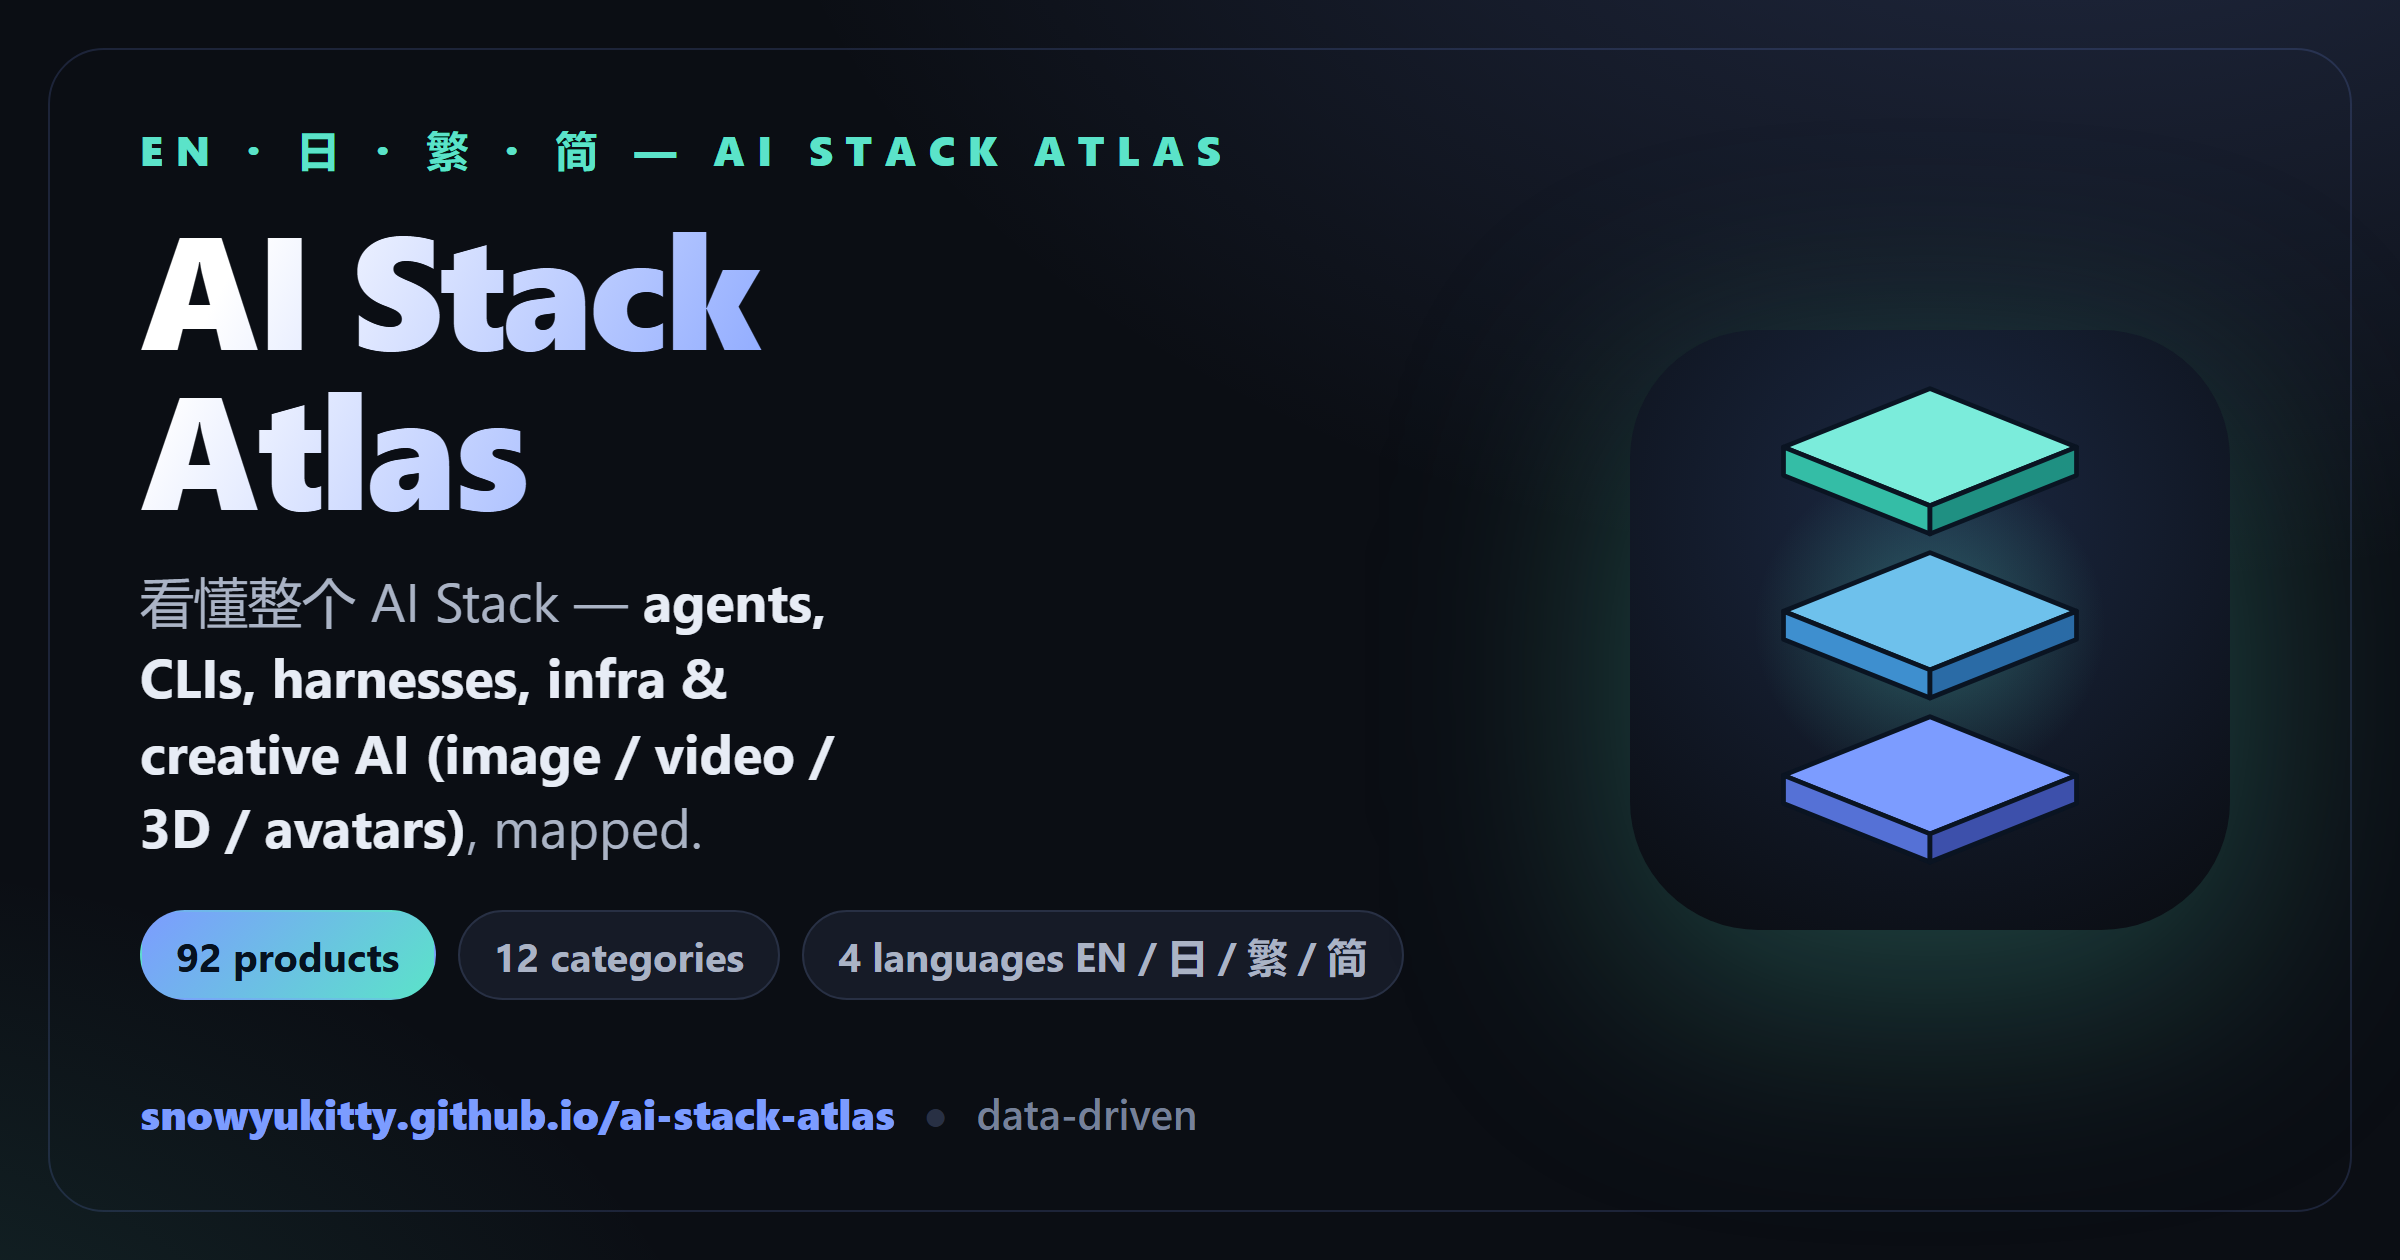
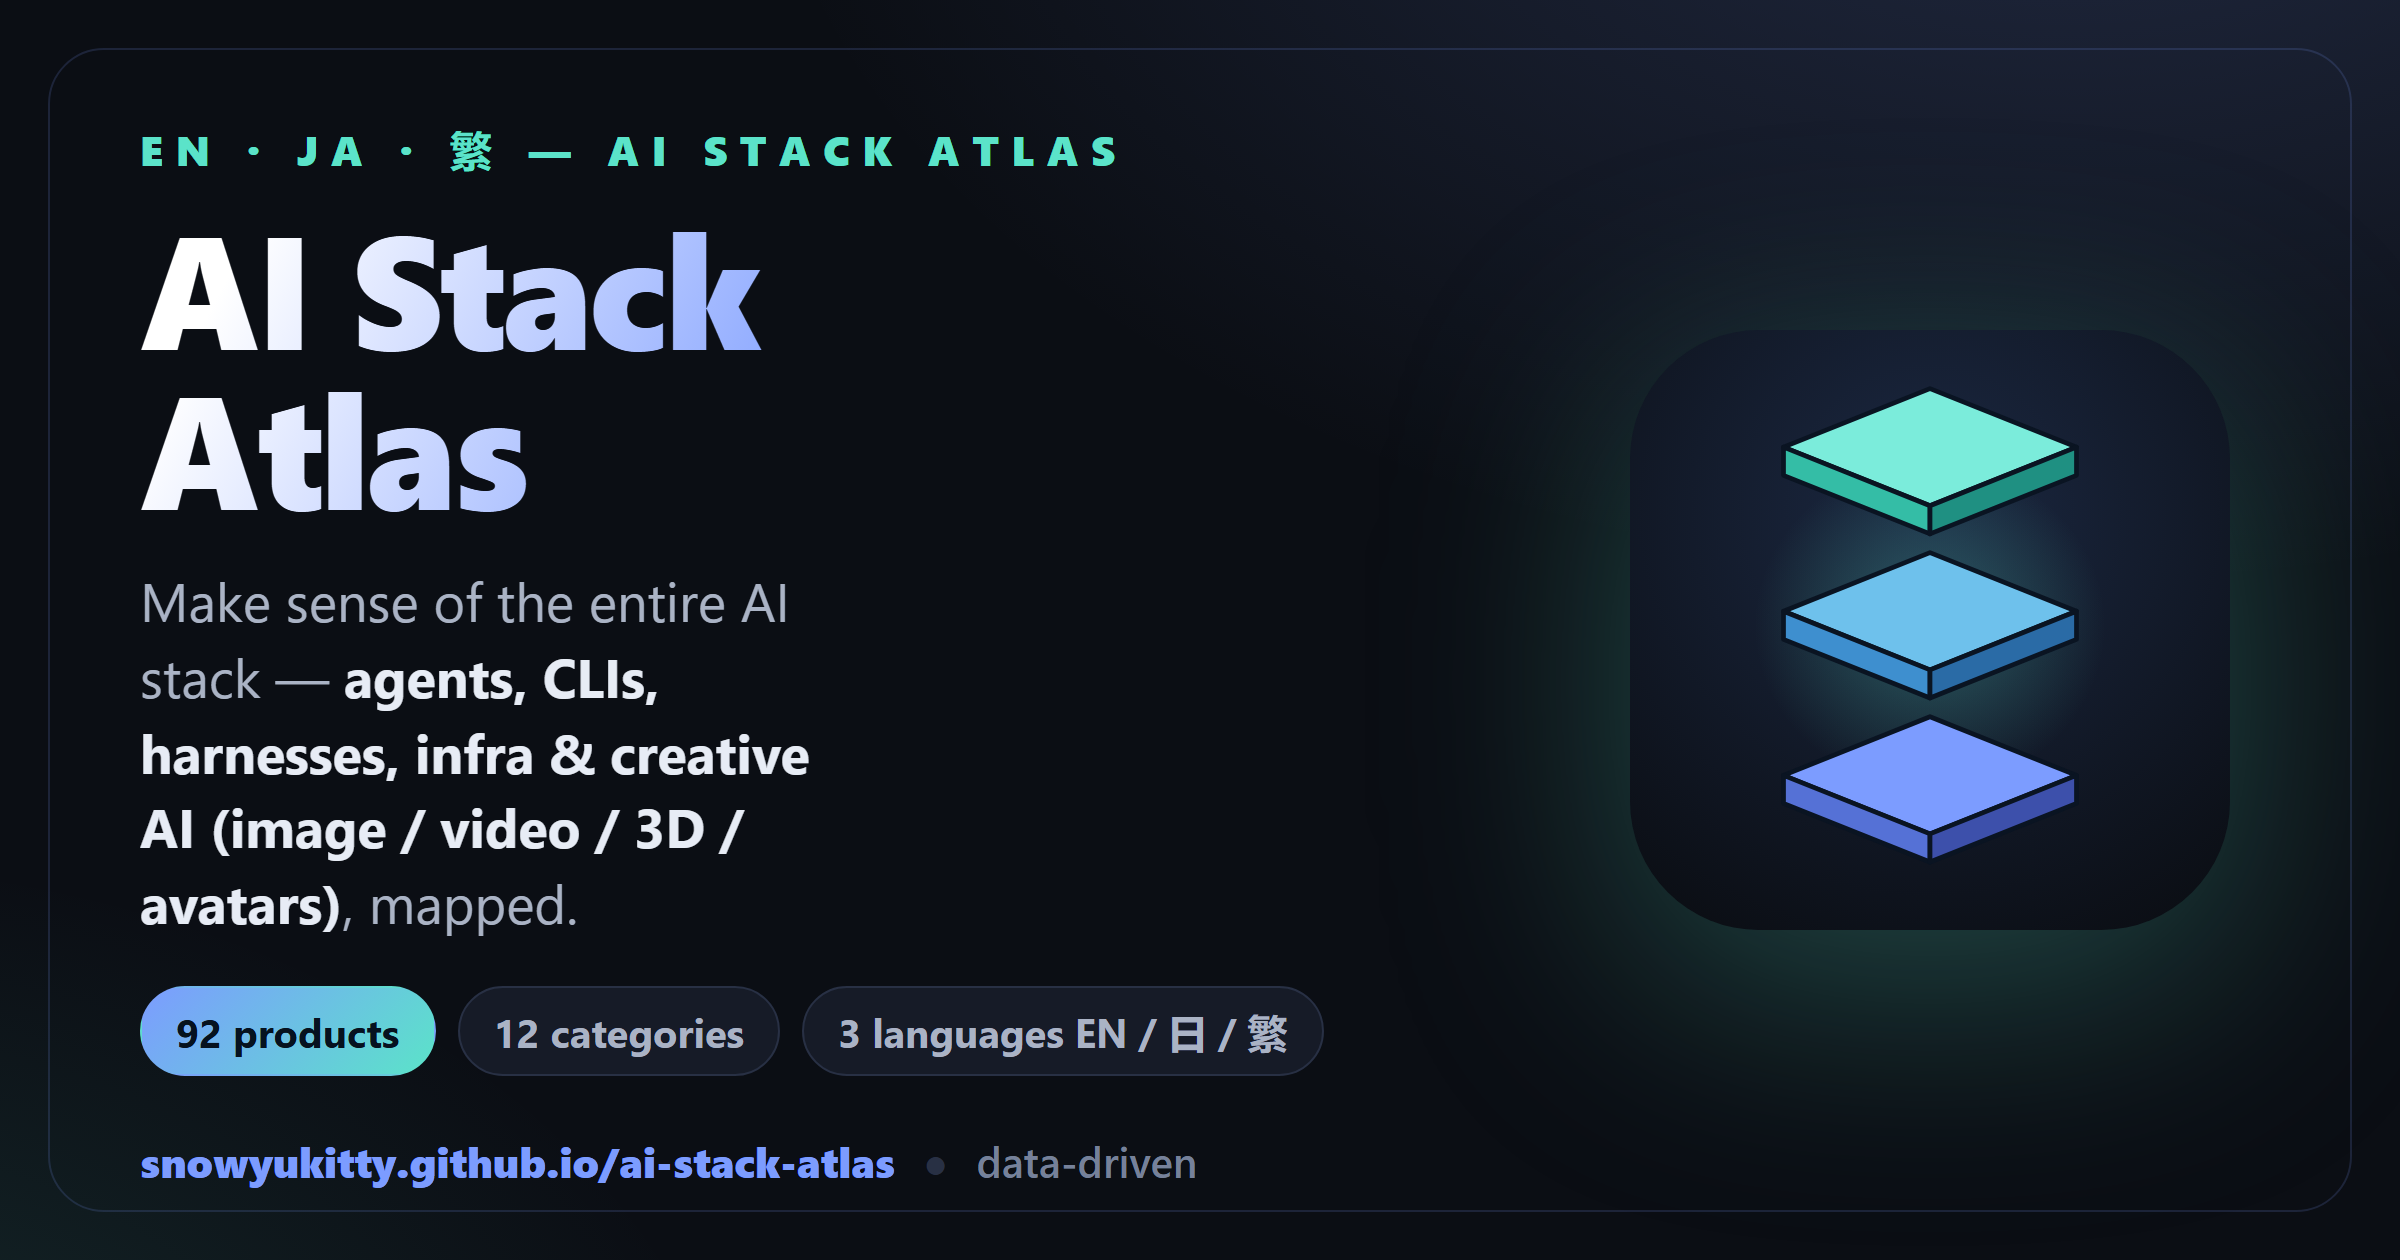
Use EN/JA/繁 as display locales; keep Simplified hidden
English is primary and Traditional Chinese remains the Chinese UI (OpenCC from zh). Simplified translations stay in data and HTML, but the 简 switcher is temporarily hidden so it can be re-enabled later.

diff --git a/src/data/ui.ts b/src/data/ui.ts
@@ -1,11 +1,18 @@
 import type { Loc } from '../lib/types';
 
+/** Authoring locale codes in Loc. Display adds "hant" (derived from zh via OpenCC). */
 export type LangCode = 'zh' | 'en' | 'ja';
 
-export const LANGS: { code: LangCode; label: string }[] = [
-  { code: 'zh', label: '中文' },
+/**
+ * Language switcher order: EN primary, JA secondary, 繁.
+ * Simplified (`zh` / 简) is temporarily hidden — still in data + HTML.
+ * To re-show: unhide the 简 button in Header.astro and accept `zh` in Base.astro.
+ */
+export const LANGS: { code: 'en' | 'ja' | 'hant' | 'zh'; label: string; hidden?: boolean }[] = [
   { code: 'en', label: 'EN' },
   { code: 'ja', label: '日本語' },
+  { code: 'hant', label: '繁' },
+  { code: 'zh', label: '简', hidden: true },
 ];
 
 /** UI string table. */
@@ -74,9 +81,9 @@ export const ui = {
   },
   footer: {
     built: {
-      zh: '一个会持续更新的 AI Stack 知识库 · 数据驱动 · 四语（EN / 日 / 繁 / 简）',
-      en: 'A continuously updated AI-stack knowledge base · data-driven · 4 languages (EN / 日 / 繁 / 简)',
-      ja: '継続更新する AI スタック知識ベース · データ駆動 · 4 言語（EN / 日 / 繁 / 简）',
+      zh: '一个会持续更新的 AI Stack 知识库 · 数据驱动 · 三语（EN / 日 / 繁）',
+      en: 'A continuously updated AI-stack knowledge base · data-driven · 3 languages (EN / 日 / 繁)',
+      ja: '継続更新する AI スタック知識ベース · データ駆動 · 3 言語（EN / 日 / 繁）',
     },
     disclaimer: {
       zh: '评分与定位为个人观点，benchmark 数据引自公开来源，会随版本变化。',

diff --git a/src/styles/global.css b/src/styles/global.css
@@ -11,8 +11,8 @@
   /* Offset for deep-link scroll targets so they clear the sticky header. */
   --scroll-offset: 84px;
   --font-sans: ui-sans-serif, system-ui, -apple-system, "Segoe UI", Roboto,
-    "Helvetica Neue", "PingFang SC", "Hiragino Sans", "Microsoft YaHei",
-    "Noto Sans CJK SC", sans-serif;
+    "Helvetica Neue", "PingFang TC", "Hiragino Sans", "Microsoft JhengHei",
+    "Noto Sans CJK TC", "Hiragino Sans GB", sans-serif;
   --font-mono: ui-monospace, "SFMono-Regular", "JetBrains Mono", "Cascadia Code",
     Consolas, "Liberation Mono", monospace;
 }
@@ -107,18 +107,21 @@ code, kbd {
 
 /* ============================================================
    i18n — show only the active language
+   Display UI: en (primary) · ja · hant.
+   Simplified (zh) CSS is kept so re-enabling the switcher button just works;
+   the 简 button is currently `hidden` in Header.astro.
    ============================================================ */
 .i18n > [lang] { display: none; }
-html[data-lang="zh"] .i18n > [lang="zh"] { display: revert; }
-html[data-lang="hant"] .i18n > [lang="hant"] { display: revert; }
 html[data-lang="en"] .i18n > [lang="en"] { display: revert; }
 html[data-lang="ja"] .i18n > [lang="ja"] { display: revert; }
+html[data-lang="hant"] .i18n > [lang="hant"] { display: revert; }
+html[data-lang="zh"] .i18n > [lang="zh"] { display: revert; }
 /* block-level variant */
 .i18n-block > [lang] { display: none; }
-html[data-lang="zh"] .i18n-block > [lang="zh"] { display: block; }
-html[data-lang="hant"] .i18n-block > [lang="hant"] { display: block; }
 html[data-lang="en"] .i18n-block > [lang="en"] { display: block; }
 html[data-lang="ja"] .i18n-block > [lang="ja"] { display: block; }
+html[data-lang="hant"] .i18n-block > [lang="hant"] { display: block; }
+html[data-lang="zh"] .i18n-block > [lang="zh"] { display: block; }
 
 /* ============================================================
    Header

diff --git a/src/lib/hant.ts b/src/lib/hant.ts
@@ -1,8 +1,10 @@
 // Build-time Simplified -> Traditional Chinese conversion.
 //
-// The dataset stays trilingual (zh / en / ja). Traditional Chinese ("繁") is a
-// FOURTH *display* locale derived from the Simplified `zh` text at build time via
-// OpenCC, so we render it into the HTML without duplicating hundreds of strings.
+// Authoring stays trilingual (zh / en / ja). User-facing Chinese is Traditional
+// ("繁" / hant), derived from the Simplified `zh` strings via OpenCC so we don't
+// duplicate hundreds of entries. Simplified translations are still rendered into
+// the HTML (and kept in data), but the language-switcher button is temporarily
+// hidden — re-enable by unhiding the 简 button in Header.astro.
 // `twp` = Simplified -> Traditional (Taiwan standard, with phrase/vocabulary
 // localization, e.g. 软件->軟體, 网络->網路, 鼠标->滑鼠). OpenCC only touches CJK
 // characters, so any inline HTML/ASCII in a string passes through untouched.

diff --git a/src/lib/types.ts b/src/lib/types.ts
@@ -1,4 +1,10 @@
-/** A localized string: Simplified Chinese / English / Japanese. */
+/**
+ * A localized string triple used for authoring.
+ * Display order: English (primary) · Japanese (secondary) · Traditional Chinese.
+ * `zh` holds Simplified Chinese (kept in data + HTML). Traditional Chinese is
+ * derived at build time via OpenCC for the 繁 locale. The Simplified switcher
+ * option is temporarily hidden in the UI.
+ */
 export interface Loc {
   zh: string;
   en: string;

diff --git a/README.md b/README.md
@@ -1,16 +1,18 @@
 <div align="center">
 
-<img src="public/og.png" alt="AI Stack Atlas — a four-language field guide to the modern AI stack" width="820">
+<img src="public/og.png" alt="AI Stack Atlas — an EN / JA / 繁 field guide to the modern AI stack" width="820">
 
-# AI Stack Atlas · AI Stack 图鉴
+# AI Stack Atlas
 
 ### **[🔗 Live site → snowyukitty.github.io/ai-stack-atlas](https://snowyukitty.github.io/ai-stack-atlas/)**
 
-A **four-language (English · 日本語 · 繁體 · 简体)**, data-driven field guide & comparison hub
+A **three-language (English · 日本語 · 繁體中文)** field guide & comparison hub
 for the modern AI stack — **coding agents · CLIs · harnesses · infrastructure · image / video / 3D / avatars / music / voice** —
 with ranked picks and side-by-side comparisons in each creative domain.
+**English is primary, Japanese secondary; Traditional Chinese is the Chinese UI.**
+Simplified Chinese translations are still in the data/HTML but **temporarily hidden** from the language switcher.
 
-`92 products` · `12 categories` · `11 AI companies` · `4 languages` · `side-by-side compare` · `benchmarks & charts` · `one self-contained file`
+`92 products` · `12 categories` · `11 AI companies` · `3 languages (简 hidden)` · `side-by-side compare` · `benchmarks & charts` · `one self-contained file`
 
 </div>
 
@@ -73,13 +75,15 @@ Requires Node 22.12+ (Astro 7's minimum; developed on Node 22). `npm install` is
 
 ## How it works
 
-The site renders **all four languages into the HTML**, and CSS shows only the active
-one based on `<html data-lang="…">`. Switching language (or light/dark theme) is instant,
-client-side, and persisted to `localStorage` — no rebuild, no page reload.
+The site renders **three display languages into the HTML** (EN · JA · 繁), and CSS shows
+only the active one based on `<html data-lang="…">`. Default is English. Switching
+language (or light/dark theme) is instant, client-side, and persisted to `localStorage`
+— no rebuild, no page reload.
 
-The data is authored in **three locales** (`zh` 简体 / `en` / `ja`); **Traditional Chinese
-(繁體) is derived from `zh` at build time** via OpenCC (`src/lib/hant.ts`, Taiwan `twp`
-preset), so the 4th language needs no duplicated strings.
+Authoring uses **three locales** (`zh` / `en` / `ja`); **Traditional Chinese (繁體) is
+derived from `zh` at build time** via OpenCC (`src/lib/hant.ts`, Taiwan `twp` preset)
+and is the Chinese UI. Simplified (`zh`) strings stay in the HTML for later; the 简
+switcher button is currently `hidden` in `Header.astro` — remove `hidden` to re-enable.
 
 ```
 src/
@@ -91,7 +95,7 @@ src/
     ui.ts              · UI strings + LAST_UPDATED lives in products.ts
   lib/types.ts         · the data model (Product, Concept, …)
   components/
-    L.astro            · i18n text helper ({zh,en,ja}; 繁 derived from zh via lib/hant.ts)
+    L.astro            · i18n text helper (EN/JA/繁; 繁 derived from zh via lib/hant.ts)
     Header / Footer / ProductCard
     views/             · Home, Catalog, Compare, Companies (deep dives), Concepts, Rankings, Stack
     companies.ts       · deep dives on the 11 labs behind the stack (US · China · Europe)
@@ -117,7 +121,9 @@ the same data — no chart library, so the single file stays self-contained.
 ### Adding / updating a product
 
 Open `src/data/products.ts` and add an entry to the `products` array. Every
-human-readable field is a `Loc` (`{ zh, en, ja }`) so it stays trilingual:
+human-readable field is a `Loc` (`{ zh, en, ja }`). English is the primary copy;
+Japanese is secondary; `zh` is the Chinese authoring source that becomes Traditional
+Chinese (繁) at build time — Simplified is never shown:
 
 ```ts
 {